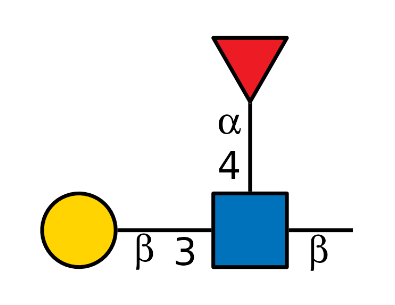
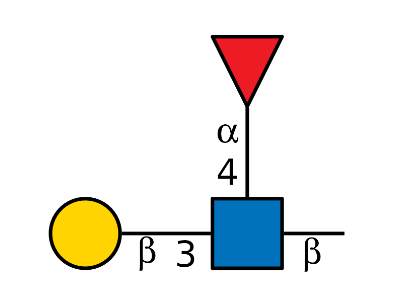
Deploying to gh-pages from @ glycoverse/glydraw@c177ff50cacd7edb69977a14cc20e607fc511ec3 🚀

Changed region(s): [[0.0911, 0.0885, 0.9114, 0.8852]]

diff --git a/dev/news/index.html b/dev/news/index.html
@@ -33,6 +33,10 @@
 
     <div class="section level2">
 <h2 class="pkg-version" data-toc-text="development version" id="glydraw-development-version">glydraw (development version)<a class="anchor" aria-label="anchor" href="#glydraw-development-version"></a></h2>
+<div class="section level3">
+<h3 id="minor-improvements-and-bug-fixes-development-version">Minor improvements and bug fixes<a class="anchor" aria-label="anchor" href="#minor-improvements-and-bug-fixes-development-version"></a></h3>
+<ul><li>Fix Fuc-like triangle geometry so triangle bottoms and apexes align with rectangle node bounds. (#49)</li>
+</ul></div>
 </div>
     <div class="section level2">
 <h2 class="pkg-version" data-toc-text="0.6.0" id="glydraw-060">glydraw 0.6.0<a class="anchor" aria-label="anchor" href="#glydraw-060"></a></h2>

diff --git a/dev/articles/glydraw.html b/dev/articles/glydraw.html
@@ -222,7 +222,7 @@ object.</p>
 <span></span>
 <span><span class="fu"><a href="../reference/save_cartoon.html">save_cartoon</a></span><span class="op">(</span><span class="va">cartoon</span>, <span class="va">outfile</span>, scale <span class="op">=</span> <span class="fl">2</span><span class="op">)</span></span>
 <span><span class="va">outfile</span></span>
-<span><span class="co">#&gt; [1] "/tmp/RtmpvUgVi8/n-core.png"</span></span></code></pre></div>
+<span><span class="co">#&gt; [1] "/tmp/RtmpMTqwkW/n-core.png"</span></span></code></pre></div>
 <p><code>glydraw</code> does not expose separate <code>width</code> and
 <code>height</code> controls because each cartoon has a natural size
 calculated from its glycan structure. <code>scale</code> preserves the

diff --git a/dev/news/index.md b/dev/news/index.md
@@ -2,6 +2,11 @@
 
 ## glydraw (development version)
 
+### Minor improvements and bug fixes
+
+- Fix Fuc-like triangle geometry so triangle bottoms and apexes align
+  with rectangle node bounds. (#49)
+
 ## glydraw 0.6.0
 
 ### Breaking changes

diff --git a/dev/articles/glydraw.md b/dev/articles/glydraw.md
@@ -203,7 +203,7 @@ outfile <- file.path(tempdir(), "n-core.png")
 
 save_cartoon(cartoon, outfile, scale = 2)
 outfile
-#> [1] "/tmp/RtmpvUgVi8/n-core.png"
+#> [1] "/tmp/RtmpMTqwkW/n-core.png"
 ```
 
 `glydraw` does not expose separate `width` and `height` controls because